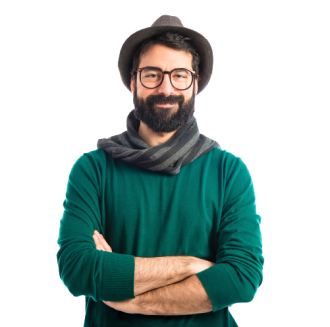
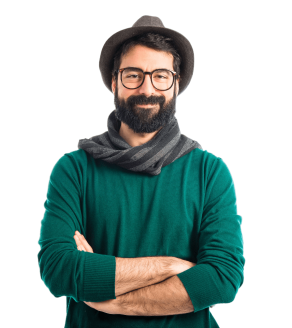
add jobs & reviews image adaptation

diff --git a/src/index.html b/src/index.html
@@ -259,7 +259,11 @@
                                 <button class="jobs__menu" type="button" aria-label="open menu">
                                     <div></div>
                                 </button>
-                                <img class="jobs__photo" src="./img/jobs/worker1.jpg" alt="worker">
+                                <picture>
+                                    <source srcset="./img/jobs/worker1.webp 1x, ./img/jobs/worker1@2x.webp 2x" type="image/webp">
+                                    <source srcset="./img/jobs/worker1.jpg 1x, ./img/jobs/worker1@2x.jpg 2x" type="image/jpeg">
+                                    <img class="jobs__photo" src="./img/jobs/worker1.jpg" alt="worker">
+                                </picture>
                                 <p class="jobs__position">Database Programmer 1</p>
                                 <p class="jobs__team">Marraz Team</p>
                                 <div class="jobs__point">
@@ -290,7 +294,11 @@
                                 <button class="jobs__menu" type="button" aria-label="open menu">
                                     <div></div>
                                 </button>
-                                <img class="jobs__photo" src="./img/jobs/worker2.jpg" alt="worker">
+                                <picture>
+                                    <source srcset="./img/jobs/worker2.webp 1x, ./img/jobs/worker2@2x.webp 2x" type="image/webp">
+                                    <source srcset="./img/jobs/worker2.jpg 1x, ./img/jobs/worker2@2x.jpg 2x" type="image/jpeg">
+                                    <img class="jobs__photo" src="./img/jobs/worker2.jpg" alt="worker">
+                                </picture>
                                 <p class="jobs__position">Database Programmer 2</p>
                                 <p class="jobs__team">Marraz Team</p>
                                 <div class="jobs__point">
@@ -321,7 +329,11 @@
                                 <button class="jobs__menu" type="button" aria-label="open menu">
                                     <div></div>
                                 </button>
-                                <img class="jobs__photo" src="./img/jobs/worker1.jpg" alt="worker">
+                                <picture>
+                                    <source srcset="./img/jobs/worker1.webp 1x, ./img/jobs/worker1@2x.webp 2x" type="image/webp">
+                                    <source srcset="./img/jobs/worker1.jpg 1x, ./img/jobs/worker1@2x.jpg 2x" type="image/jpeg">
+                                    <img class="jobs__photo" src="./img/jobs/worker1.jpg" alt="worker">
+                                </picture>
                                 <p class="jobs__position">Database Programmer 3</p>
                                 <p class="jobs__team">Marraz Team</p>
                                 <div class="jobs__point">
@@ -352,7 +364,11 @@
                                 <button class="jobs__menu" type="button" aria-label="open menu">
                                     <div></div>
                                 </button>
-                                <img class="jobs__photo" src="./img/jobs/worker2.jpg" alt="worker">
+                                <picture>
+                                    <source srcset="./img/jobs/worker2.webp 1x, ./img/jobs/worker2@2x.webp 2x" type="image/webp">
+                                    <source srcset="./img/jobs/worker2.jpg 1x, ./img/jobs/worker2@2x.jpg 2x" type="image/jpeg">
+                                    <img class="jobs__photo" src="./img/jobs/worker2.jpg" alt="worker">
+                                </picture>
                                 <p class="jobs__position">Database Programmer 4</p>
                                 <p class="jobs__team">Marraz Team</p>
                                 <div class="jobs__point">
@@ -383,7 +399,11 @@
                                 <button class="jobs__menu" type="button" aria-label="open menu">
                                     <div></div>
                                 </button>
-                                <img class="jobs__photo" src="./img/jobs/worker1.jpg" alt="worker">
+                                <picture>
+                                    <source srcset="./img/jobs/worker1.webp 1x, ./img/jobs/worker1@2x.webp 2x" type="image/webp">
+                                    <source srcset="./img/jobs/worker1.jpg 1x, ./img/jobs/worker1@2x.jpg 2x" type="image/jpeg">
+                                    <img class="jobs__photo" src="./img/jobs/worker1.jpg" alt="worker">
+                                </picture>
                                 <p class="jobs__position">Database Programmer 5</p>
                                 <p class="jobs__team">Marraz Team</p>
                                 <div class="jobs__point">
@@ -414,7 +434,11 @@
                                 <button class="jobs__menu" type="button" aria-label="open menu">
                                     <div></div>
                                 </button>
-                                <img class="jobs__photo" src="./img/jobs/worker2.jpg" alt="worker">
+                                <picture>
+                                    <source srcset="./img/jobs/worker2.webp 1x, ./img/jobs/worker2@2x.webp 2x" type="image/webp">
+                                    <source srcset="./img/jobs/worker2.jpg 1x, ./img/jobs/worker2@2x.jpg 2x" type="image/jpeg">
+                                    <img class="jobs__photo" src="./img/jobs/worker2.jpg" alt="worker">
+                                </picture>
                                 <p class="jobs__position">Database Programmer 6</p>
                                 <p class="jobs__team">Marraz Team</p>
                                 <div class="jobs__point">
@@ -445,7 +469,11 @@
                                 <button class="jobs__menu" type="button" aria-label="open menu">
                                     <div></div>
                                 </button>
-                                <img class="jobs__photo" src="./img/jobs/worker1.jpg" alt="worker">
+                                <picture>
+                                    <source srcset="./img/jobs/worker1.webp 1x, ./img/jobs/worker1@2x.webp 2x" type="image/webp">
+                                    <source srcset="./img/jobs/worker1.jpg 1x, ./img/jobs/worker1@2x.jpg 2x" type="image/jpeg">
+                                    <img class="jobs__photo" src="./img/jobs/worker1.jpg" alt="worker">
+                                </picture>
                                 <p class="jobs__position">Database Programmer 7</p>
                                 <p class="jobs__team">Marraz Team</p>
                                 <div class="jobs__point">
@@ -476,7 +504,11 @@
                                 <button class="jobs__menu" type="button" aria-label="open menu">
                                     <div></div>
                                 </button>
-                                <img class="jobs__photo" src="./img/jobs/worker2.jpg" alt="worker">
+                                <picture>
+                                    <source srcset="./img/jobs/worker2.webp 1x, ./img/jobs/worker2@2x.webp 2x" type="image/webp">
+                                    <source srcset="./img/jobs/worker2.jpg 1x, ./img/jobs/worker2@2x.jpg 2x" type="image/jpeg">
+                                    <img class="jobs__photo" src="./img/jobs/worker2.jpg" alt="worker">
+                                </picture>
                                 <p class="jobs__position">Database Programmer 8</p>
                                 <p class="jobs__team">Marraz Team</p>
                                 <div class="jobs__point">
@@ -517,9 +549,27 @@
             <div class="reviews__content">
                 <div class="reviews__author swiper">
                     <ul class="reviews__author-list swiper-wrapper">
-                        <li class="reviews__author-item swiper-slide"><img class="reviews__photo" src="./img/reviews/author1.png" alt="author's photo"></li>
-                        <li class="reviews__author-item swiper-slide"><img class="reviews__photo" src="./img/reviews/author1.png" alt="author's photo"></li>
-                        <li class="reviews__author-item swiper-slide"><img class="reviews__photo" src="./img/reviews/author1.png" alt="author's photo"></li>
+                        <li class="reviews__author-item swiper-slide">
+                            <picture>
+                                <source srcset="./img/reviews/author1.webp 1x, ./img/reviews/author1@2x.webp 2x" type="image/webp">
+                                <source srcset="./img/reviews/author1.png 1x, ./img/reviews/author1@2x.png 2x" type="image/x-png">
+                                <img class="reviews__photo" src="./img/reviews/author1.png" alt="author's photo">
+                            </picture>
+                        </li>
+                        <li class="reviews__author-item swiper-slide">
+                            <picture>
+                                <source srcset="./img/reviews/author2.webp 1x, ./img/reviews/author2@2x.webp 2x" type="image/webp">
+                                <source srcset="./img/reviews/author2.png 1x, ./img/reviews/author2@2x.png 2x" type="image/x-png">
+                                <img class="reviews__photo" src="./img/reviews/author2.png" alt="author's photo">
+                            </picture>
+                        </li>
+                        <li class="reviews__author-item swiper-slide">
+                            <picture>
+                                <source srcset="./img/reviews/author3.webp 1x, ./img/reviews/author3@2x.webp 2x" type="image/webp">
+                                <source srcset="./img/reviews/author3.png 1x, ./img/reviews/author3@2x.png 2x" type="image/x-png">
+                                <img class="reviews__photo" src="./img/reviews/author3.png" alt="author's photo">
+                            </picture>
+                        </li>
                     </ul>
                     <svg class="reviews__circles-decor">
                         <use href="./svg/sprite.svg#circles-decor"></use>
@@ -632,9 +682,21 @@
                             </button>
                         </div>
                         <a class="reviews__other-authors" href="" target="_blank">
-                            <img class="reviews__another-author" src="./img/reviews/another-author1.jpg" alt="other authors">
-                            <img class="reviews__another-author" src="./img/reviews/another-author2.jpg" alt="other authors">
-                            <img class="reviews__another-author" src="./img/reviews/another-author3.jpg" alt="other authors">
+                            <picture>
+                                <source srcset="./img/reviews/another-author1.webp 1x, ./img/reviews/another-author1@2x.webp 2x" type="image/webp">
+                                <source srcset="./img/reviews/another-author1.jpg 1x, ./img/reviews/another-author1@2x.jpg 2x" type="image/jpeg">
+                                <img class="reviews__another-author" src="./img/reviews/another-author1.jpg" alt="other authors">
+                            </picture>
+                            <picture>
+                                <source srcset="./img/reviews/another-author2.webp 1x, ./img/reviews/another-author2@2x.webp 2x" type="image/webp">
+                                <source srcset="./img/reviews/another-author2.jpg 1x, ./img/reviews/another-author2@2x.jpg 2x" type="image/jpeg">
+                                <img class="reviews__another-author" src="./img/reviews/another-author2.jpg" alt="other authors">
+                            </picture>
+                            <picture>
+                                <source srcset="./img/reviews/another-author3.webp 1x, ./img/reviews/another-author3@2x.webp 2x" type="image/webp">
+                                <source srcset="./img/reviews/another-author3.jpg 1x, ./img/reviews/another-author3@2x.jpg 2x" type="image/jpeg">
+                                <img class="reviews__another-author" src="./img/reviews/another-author3.jpg" alt="other authors">
+                            </picture>
                             <p class="reviews__more">21k+</p>
                         </a>
                     </div>

diff --git a/src/sass/components/_reviews.scss b/src/sass/components/_reviews.scss
@@ -62,8 +62,10 @@
 
         position: absolute;
         bottom: 0;
-        right: 0;
+        left: 50%;
         z-index: 1;
+
+        transform: translateX(-50%);
     }
 
     &__circles-decor,
@@ -128,7 +130,7 @@
 
     &__rating {
         display: flex;
-        justify-content: end;
+        justify-content: flex-end;
         align-items: center;
         margin-bottom: 6px;
 
@@ -194,6 +196,8 @@
 
         transition: background-color $fastTransition;
 
+        position: relative;
+
         &:first-child {
             margin-right: 15px;
         }
@@ -221,6 +225,7 @@
     // .reviews__icon
 
     &__icon {
+        @extend %center;
         width: 22px;
         height: 18px;
 
@@ -254,17 +259,17 @@
         position: absolute;
         top: 0;
 
-        &:nth-child(1) {
+        picture:nth-child(1) & {
             right: 84px;
             z-index: 1;
         }
 
-        &:nth-child(2) {
+        picture:nth-child(2) & {
             right: 56px;
             z-index: 2;
         }
 
-        &:nth-child(3) {
+        picture:nth-child(3) & {
             right: 28px;
             z-index: 3;
         }
